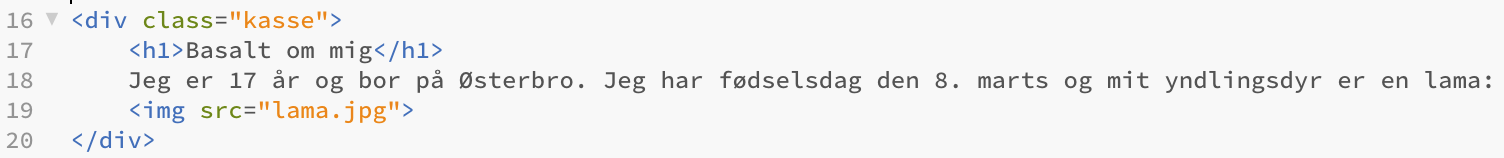
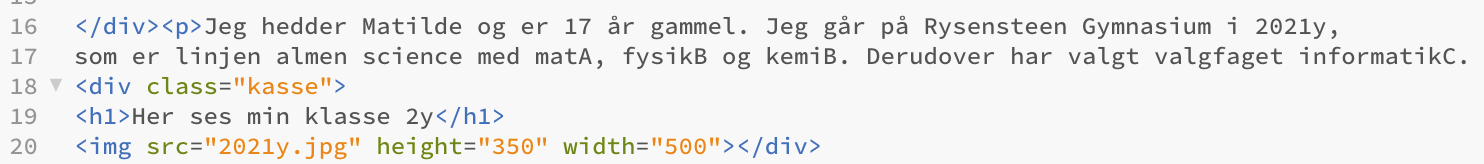
Add files via upload

diff --git a/Astro-Pi.html b/Astro-Pi.html
@@ -1,0 +1,66 @@
+<!DOCTYPE html>
+<html>
+<head>
+<link rel="stylesheet" href="myStyle.css">
+<meta charset="UTF-8">
+</head>
+<body>
+   <h1>Mit informatik portfolio</h1>
+    <div class="topnav">
+    <a href="index.html">Hovedmenu</a>
+    <a href="Webteknologi.html">Webteknologi</a>
+    <a href="itsikkerhed.html">IT-sikkerhed</a>
+    <a href="Astro-Pi.html">Astro-Pi projekt</a>
+    
+</div> 
+<h1>Astro-Pi projekt</h1>
+<div class=kasse>
+<div>
+Vi har i dette forløb om Astro-Pi arbejdet med basal kodning i Python, hvor vi har udviklet et projekt til detagelse i ESAs Mission Spave Lab udfordring. Jeg har været i gruppe med Alba, Sara og Wilma 2021y.
+    
+<h2>Vores Astro-Pi projekt beskrivelse:</h2>
+Vi vil gerne undersøge hvordan planter har det i to forskellige skove som er placeret to forskellige steder. For at gøre dette vil vi bruge et infrarødt kamera som vil kunne fortælle om planterne befinder sig i et godt eller dårligt miljø. Det kan man bruge det infrarøde kamera til da det kan vise hvor meget nær infrarød stråling planterne udsender. Dette indikerer nemlig densiteten og helbredet af planterne i det givne område. Til slut vil vi sammenligne de to skove og se hvilken destination der er mest optimal for planter at leve i.
+
+<h2>Gennemgang af ESA’s specifikationer og en vurdering af hvilke rammer det sætter for jeres projekt:</h2>
+ESA har en masse forskellige specifikationer som ens projekt skal være indenfor. En af disse er at det skal være et videnskabeligt projekt og ikke et spil. Dette har vi opfyldt ved at undersøge planters levestandarder i et spesefikt områder, nemlig Amazonas. Hvilket er videnskabeligt og ikke er et spil. Et andet krav er at forsøget ikke skal afhænge af en specifik begivenhed som muligvis ikke vil finde sted i løbet af de tre timer. Dette lever vores projekt op til da vores forsøg ikke afhænger af nogen specifik begivenhed for at kunne finde sted. Et af ESA’s andre krav er at forsøget ikke må kræve yderligere udstyr eller adgang til noget andet på ISS, hvilket vores projekt lever op til da der ikke er behov for noget andet til at udføre vores forsøg.
+
+<h2>Beskrivelse af sensor:</h2>
+Dataen vi vil samle er billeder af to forskellige skove med et NDVI-filter. NDVI-filteret er et vegetationsindeks som indikerer planternes sundhed baseret på hvordan planter udsender bestemte bølgelængder i det elektromagnetiske spektrum. Det er cellestrukturen i planterne som udsender nær-infrarød stråling, hvilket betyder at når planterne udfører fotosyntese, og de dermed vokser, vil planterne indeholde flere cellestrukturer. Dette betyder at sunde planter udsender mere NIR end planter som ikke trives. Så ved at tage billeder af to forskellige skove vil man kunne bestemme hvilket sted planterne trives bedst.
+    
+<h2>Link til vores kode</h2>
+<a href="zaynmalik.py">Programkode</a> 
+        
+<h2>Vurdering af om vores kode lever op til ESA’s kravspecifikationer:</h2>
+Vi har udvalgt 3 af ESA’s kravspecifikationer, som vores kode lever op til:
+<img src="krav.jpg" height="250" width="500">
+ESA har også nogle specifikke krav til ens kode. Nogle eksempler på disse er kravene: ens program skal bruge mindst en Sense Hat sensor eller kameraet, ens kode må ikke indeholde ondsindet kode, som bevidst prøver at forstyrre systemets funktionalitet og ens program skal ikke bruge netværk. Vores kode lever op til disse tre krav, da vi gør brug af kameraet, vores kode indeholder ikke nogen “ondsindet” kode og den skal ikke bruge netværk.</div> 
+
+<h2>Grundig beskrivelse af test måling af mindst en måling:</h2>
+Når man løber vores program vil det være muligt med to forskellige output:<br>
+    
+1. Den første testmåling af ISS ikke over Amazonas:<br>
+Det første udkom af testmålingerne er hvis ISS-sensoren ikke er over Amazonas. I dette tilfælde vil den måle længde- og breddegrad af sensorens lokation og hvor højt over jorden den befinder sig. Ud fra dette ved den, om den er indenfor det givne område, nemlig Amazonas, og når den ikke er det, som i dette tilfælde, så tager den ikke et billede og siger “intet billed”:
+<img src="1tm.png" height="100" width="500"><br><br>
+    
+2. Den anden testmåling er ISS over Amazonas:<br>
+Det andet udkom af testmålingerne er hvis ISS-sensoren er over Amazonas. I dette tilfælde vil den igen måle længde- og breddegrad af sensorens lokation og hvor højt over jorden den befinder sig, som ses her:<br>
+<img src="2tm.png" height="100" width="500"><br> 
+Den vil igen ud fra dette vide om den er indenfor det givne område, nemlig Amazonas, og når den er det, som i dette tilfælde, så tager den et billede:
+<img src="klasse.png" height="200" width="500">
+Dette er et billede fra klasselokalet, som blev taget, da ISS-sensoren var over Amazonas.
+
+
+</div>
+
+
+
+
+<div class=kasse2><div>
+<h1>Gennemgang af kode og flowchart:</h1>
+<img src="kode.jpg" height="250" width="500">
+Denne kode bruges til, at tage billeder af vores valgte destination Amazonas. Dette gøres ved at lave en if-statement som ses i linje 6 hvor vi skriver at hvis ISS er indenfor de breddegrader og længdegrader der er skrevet, så skal den tage et billede.<br>
+<h2>Flowchart:</h2>
+<img src="flowchart.jpg" height="600" width="500"
+           
+</body>
+</html>

diff --git a/Webteknologi.html b/Webteknologi.html
@@ -1,0 +1,44 @@
+<!DOCTYPE html>
+<html>
+<head>
+<meta charset="UTF-8">
+<link rel="stylesheet" href="myStyle.css">
+</head> 
+<body>
+      <h1>Mit informatik portfolio</h1>
+    <div class="topnav">
+    <a href="index.html">Hovedmenu</a>
+    <a href="Webteknologi.html">Webteknologi</a>
+    <a href="itsikkerhed.html">IT-sikkerhed</a>
+    <a href="Astro-Pi.html">Astro-Pi projekt</a>
+    
+</div><h1>Webteknologi</h1>
+<div class="kasse">
+<h1>Kode</h1>
+Vores første forløb i informatik er webteknologi, hvor vi har arbejdet med at lave vores egne hjemmesider og i denne sammenhæng har jeg nogle linjer af min kode fra hovedmenuen, som jeg gerne vil forklare hvad gør:<br><br>
+<img src="kode.png" height="75" width="500"><br><br>
+Dette stykke kode er det der beskriver indholdet på min hovedmenu.<br><br>
+<h1>CSS-fil</h1>
+En CSS-fil er her alt design sker, det er her jeg kan vælge farve på min baggrund, tekst eller tekstboks. Det er også her jeg designer de kasser jeg vil have sat ind på min hjemmeside og den menubar jeg har i toppen af hjemmesiden. Her er et stykke kode fra min CSS-fil:<br>
+<img src="css.png" height="175" width="500">  
+Dette stykke kode er det der viser min ene kasse, som er kassen til venstre på alle undersider.
+
+</div>
+
+<div class="kasse4">
+<h1>Mere dybtgående beskrivelse:</h1>
+linje 16+17: Dette er den korte tekst jeg har skrevet om mig selv.<br><br>
+linje 18: Her "kalder" jeg så på den kasse som jeg har designet inde i min CSS-fil som gøres ved hjælp af div (mere om dette længere nede)<br><br>
+linje 19: Overskriften der ses inde i kassen, nemlig "Her ses min klasse 2y"<br><br>
+linje 20: Her "kalder" jeg så på det billede jeg gerne vil have sat ind, som ligger i min webteknologimappe på skrivebordet og jeg bestemmer også højden og bredden på billedet for at det ser optimalt ud. <br><br>
+<h1>CSS-fil:</h1>
+linje 34: Her laves navnet på kassen med en div<br><br>
+linje 35: Her laves kanten på kassen som jeg laver sort og vælger hvor tyk den skal være<br><br>
+linje 36: Her bestemmer jeg hvor bred kassen skal være<br><br>
+linje 37: Her bestemmer jeg hvor tæt teksten skal være på kanten af kassen.<br><br>
+linje 38: Her bestemmer jeg baggrundsfarven på kassen<br><br>
+linje 39: Her bestemmer jeg kassens afstand fra kanten af hjemmesiden
+</div>
+    
+</body>
+<html>

diff --git a/itsikkerhed.html b/itsikkerhed.html
@@ -5,16 +5,23 @@
 <meta charset="UTF-8">
 </head>
 <body>
-    <h1>IT-sikkerhed</h1>
+    <h1>Mit informatik portfolio</h1>
+    <div class="topnav">
+    <a href="index.html">Hovedmenu</a>
+    <a href="Webteknologi.html">Webteknologi</a>
+    <a href="itsikkerhed.html">IT-sikkerhed</a>
+    <a href="Astro-Pi.html">Astro-Pi projekt</a>
     
+    </div>
+    <h1>IT-sikkerhed</h1>
+      I dette emne har vi set på hvad det er der gør en kode stærk og hvilke koder der er lettere for computere at knække. Det kan fx have stor betydning hvor lang koden er og hvor mange forskellige tegn, bogstaver og tal den indeholder i forhold til hvor hurtigt en computer vil kunne knække koden. Derfor skal vi altså være påpasselige med vores koder til vigtige ting og med at dele ud af vores personlige information.
     <div class="kasse">
     <h1>Besøg fra Aalborg Universitet</h1>
-    Vi havde besøg af nogle fra Aalborg universitet som havde programmet en øvelse, hvor vi fandt ud af hvor let det egentligt var at hacke sig ind på andres profiler på de sociale medier.</div>
+    Vi havde besøg af nogle fra Aalborg universitet som havde programmet en øvelse, hvor vi fandt ud af hvor let det egentligt var at hacke sig ind på andres profiler på de sociale medier. </div>
     
-    <div class="kasse2">
+    <div class="kasse3">
     <h1>"Privatliv til salg" film</h1>
     Vi så filmen "Privatliv til salg" som er en video der handler om hvordan vi som forbrugere på internettet bliver til en salgsvarer for større firmaer, som kan købe sig til vores personlige informationer igennem databrokere.</div>
-    
-    I dette emne har vi også set på hvad det er der gør en kode stærk og hvilke koder der er lettere for computere at knække. Derfor skal vi altså være påpasselige med vores koder til vigtige ting og med at dele ud af vores personlige information.
+  
 </body>
 </html>

diff --git a/index.html b/index.html
@@ -3,33 +3,21 @@
 <head>
 <link rel="stylesheet" href="myStyle.css">
 <meta charset="UTF-8">
+
 </head>
 <body>
-    <h1>Mit informatik portfolio</h1>
-<p>Jeg hedder Matilde Nielsen og går på Rysensteen Gymnasium i 2021y, som er linjen almen science med matA, fysikB og kemiB.
-    <br> 
-    Derudover har jeg valgfaget informatik, hvor vi har været gennem følgende emner:
-    <br>
-    <a href="indexp.html"> - Webteknologi</a></p>
-
+<h1>Mit informatik portfolio</h1>
+<div class="topnav">
+<a href="index.html">Hovedmenu</a>
+<a href="Webteknologi.html">Webteknologi</a>
+<a href="itsikkerhed.html">IT-sikkerhed</a>
+<a href="Astro-Pi.html">Astro-Pi projekt</a>
+  
+</div><p>Jeg hedder Matilde og er 17 år gammel. Jeg går på Rysensteen Gymnasium i 2021y, 
+som er linjen almen science med matA, fysikB og kemiB. Derudover har valgt valgfaget informatikC.
 <div class="kasse">
-    <h1>Basalt om mig</h1>
-    Jeg er 17 år og bor på Østerbro. Jeg har fødselsdag den 8. marts og mit yndlingsdyr er en lama:
-    <br>
-    <img src="lama.jpg">
-</div>
-
-   <div class="kasse">
-    Jeg kan også godt lige babygrise
-    <br>
-    <img src="baby.jpg" height="200" width="300">
-   </div>
-
-    <div class="kasse">
-    og baby pandaer
-    <br>
-    <img src="panda.jpg" height="200" width="300">
-    </div>
+<h1>Her ses min klasse 2y</h1>
+<img src="2021y.jpg" height="350" width="500"></div>
 
 </body>
 </html>

diff --git a/myStyle.css b/myStyle.css
@@ -1,6 +1,36 @@
+
 body {background-color: rgb(255,192,203);}
 h1{font-style: cursive;}
 
+/* Design af topbar/header */
+.header {
+  background-color: aliceblue;
+  padding: 20px;
+  text-align: center;
+}
+
+
+/* Design af navigationsbar */
+.topnav {
+  overflow: hidden;
+  background-color: rgb(275,150,175);
+}
+
+/* Design af navigationsbars links */
+.topnav a {
+  float: left;
+  display: block;
+  color: white;
+  text-align: center;
+  padding: 8px 12px;
+  text-decoration: none;
+}
+
+/* Design af links trykfunktion/hover */
+.topnav a:hover {
+  background-color: white;
+  color: black;
+}
 div.kasse {
 border: 15px solid black;
 width: 500px;
@@ -15,8 +45,29 @@ width: 500px;
 padding: 20px;
 background-color: lavenderblush;
 margin: 20px;    
-position: fixed;
-top: 60px;
+position: relative;
+top: -2230px;
 left: 600px;
 }
 
+div.kasse3 {
+border: 15px solid black;
+width: 500px;
+padding: 20px;
+background-color: lavenderblush;
+margin: 20px;
+position: relative;
+right: -600px;
+top: -222px;
+}
+
+div.kasse4 {
+border: 15px solid black;
+width: 500px;
+padding: 20px;
+background-color: lavenderblush;
+margin: 20px;
+position: relative;
+right: -600px;
+top: -742px;
+}

diff --git a/zaynmalik.py b/zaynmalik.py
@@ -1,0 +1,35 @@
+from picamera import PiCamera 
+from time import sleep
+from datetime import datetime
+from orbit import ISS
+
+cam = PiCamera()
+
+location=ISS.coordinates()
+lat = location.latitude.degrees
+lon = location.longitude.degrees
+print (location)
+
+print(f"breddegrader:{location.latitude.degrees}")
+print(f"længdegrader:{location.longitude.degrees}")
+
+if location.latitude.degrees>0:
+    print("nordlige halvkugle")
+else:
+    print("sydlige halvkugle")
+    
+    
+def billed():
+    nowtime = datetime.now()
+    btid = nowtime.strftime("%H: %M: %S")
+    
+    cam.start_preview()
+    if -7.83<lat and lat<-1.55 and -67.9<lon and lon<-58.4:
+        for i in range(5):
+            cam.annotate_text = str(btid)
+            cam.capture('/home/pi/Tiger/image%s.jpg' %btid)
+    else:
+        print("intet billed")
+    cam.stop_preview()
+    
+billed()
